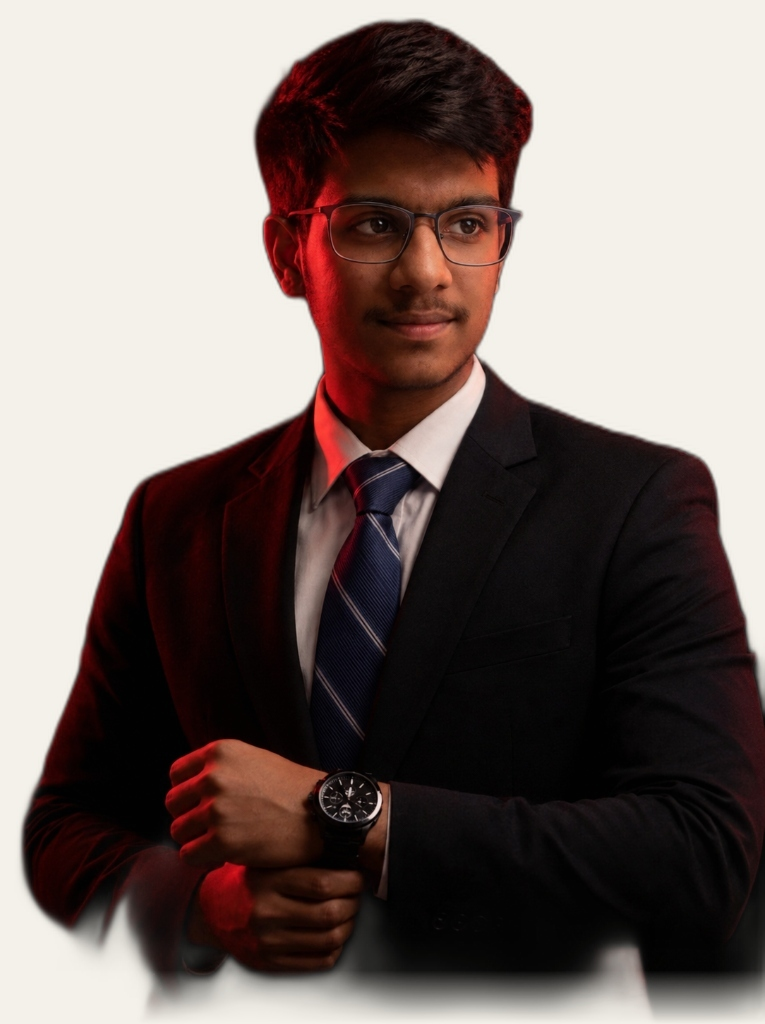
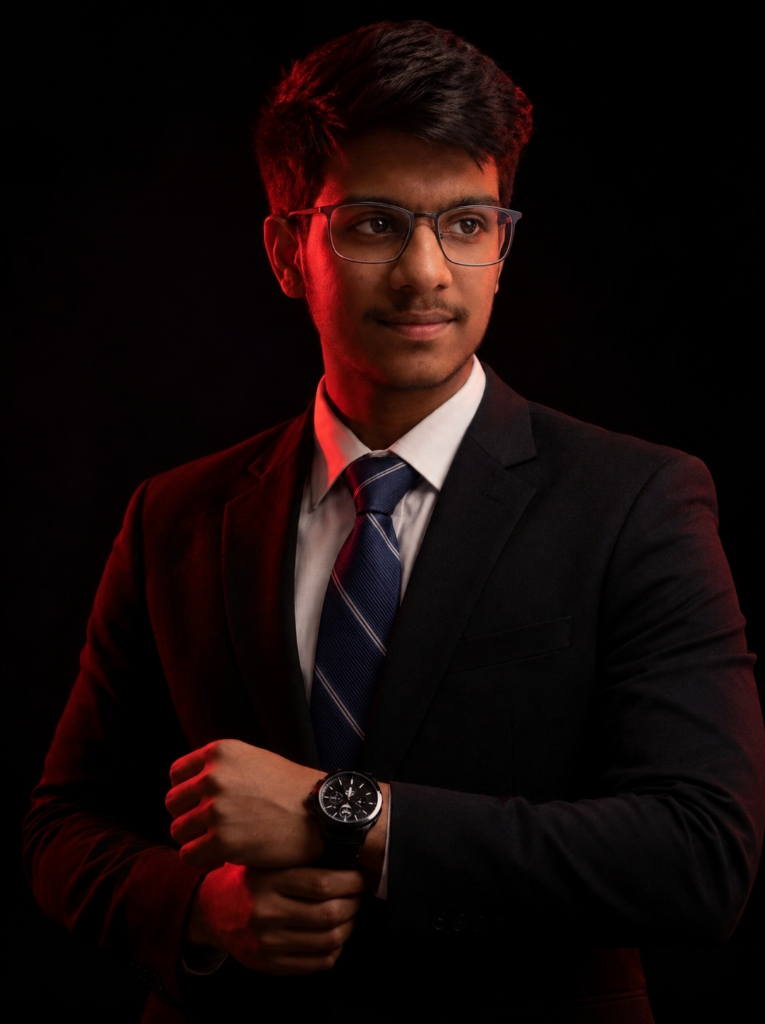
feat: restore original black background studio portrait

diff --git a/src/components/About.tsx b/src/components/About.tsx
@@ -52,9 +52,9 @@ export function About() {
       <div className="grid grid-cols-1 lg:grid-cols-12 gap-12 lg:gap-16 pt-12 items-start">
         {/* Left Column: Framed Photo & Quick Identifiers */}
         <div className="lg:col-span-5 space-y-6">
-          <div className="about-animate relative aspect-[3/4] sm:aspect-[4/5] rounded-sm overflow-hidden border border-neutral-300 bg-[#F4F1EA] shadow-sm group">
+          <div className="about-animate relative aspect-[3/4] sm:aspect-[4/5] rounded-sm overflow-hidden border border-neutral-300 bg-[#141414] shadow-sm group">
             <Image
-              src="/assets/d-mabusubhani-web.png"
+              src="/assets/profile.jpg"
               alt="D Mabusubhani"
               fill
               priority

diff --git a/src/app/layout.tsx b/src/app/layout.tsx
@@ -54,9 +54,9 @@ export const metadata: Metadata = {
     type: "website",
     images: [
       {
-        url: "/assets/d-mabusubhani-web.jpg",
-        width: 800,
-        height: 1000,
+        url: "/assets/profile.jpg",
+        width: 765,
+        height: 1024,
         alt: "D Mabusubhani — Software Engineer & AI/ML Builder",
       },
     ],
@@ -66,7 +66,7 @@ export const metadata: Metadata = {
     title: "D Mabusubhani · Software Engineer · AI/ML Builder",
     description:
       "Undergraduate engineer at MAHE building deterministic systems and applied machine learning solutions.",
-    images: ["/assets/d-mabusubhani-web.jpg"],
+    images: ["/assets/profile.jpg"],
   },
 };
 
